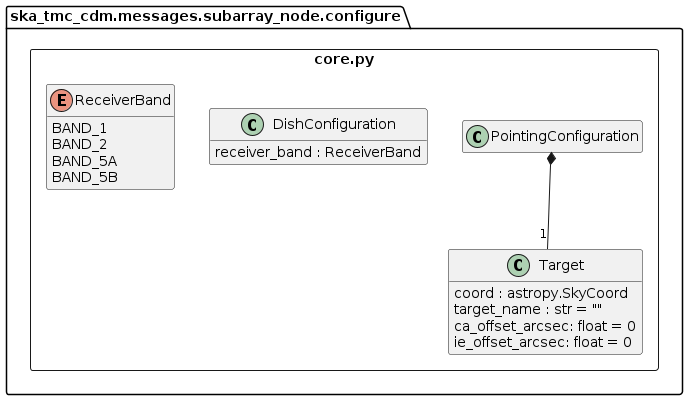
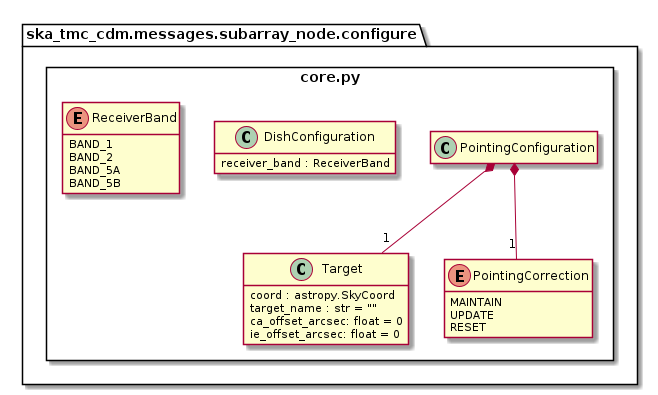
BTN-2265 Docs

diff --git a/src/ska_tmc_cdm/schemas/subarray_node/configure/core.py b/src/ska_tmc_cdm/schemas/subarray_node/configure/core.py
@@ -133,7 +133,9 @@ class PointingSchema(Schema):  # pylint: disable=too-few-public-methods
         :return: Pointing instance populated to match JSON
         """
         target = data["target"]
-        return configure_msgs.PointingConfiguration(target)
+        calibration = data["MAINTAIN"]
+
+        return configure_msgs.PointingConfiguration(target,calibration)
 
 
 class DishConfigurationSchema(Schema):  # pylint: disable=too-few-public-methods

diff --git a/src/ska_tmc_cdm/messages/subarray_node/configure/core.py b/src/ska_tmc_cdm/messages/subarray_node/configure/core.py
@@ -15,7 +15,7 @@ from astropy.coordinates import SkyCoord
 from pydantic import ConfigDict, model_validator
 from pydantic.dataclasses import dataclass
 
-__all__ = ["PointingConfiguration", "Target", "ReceiverBand", "DishConfiguration"]
+__all__ = ["PointingConfiguration", "Target", "PointingCorrection", "ReceiverBand", "DishConfiguration"]
 
 UnitStr = str | u.Unit
 
